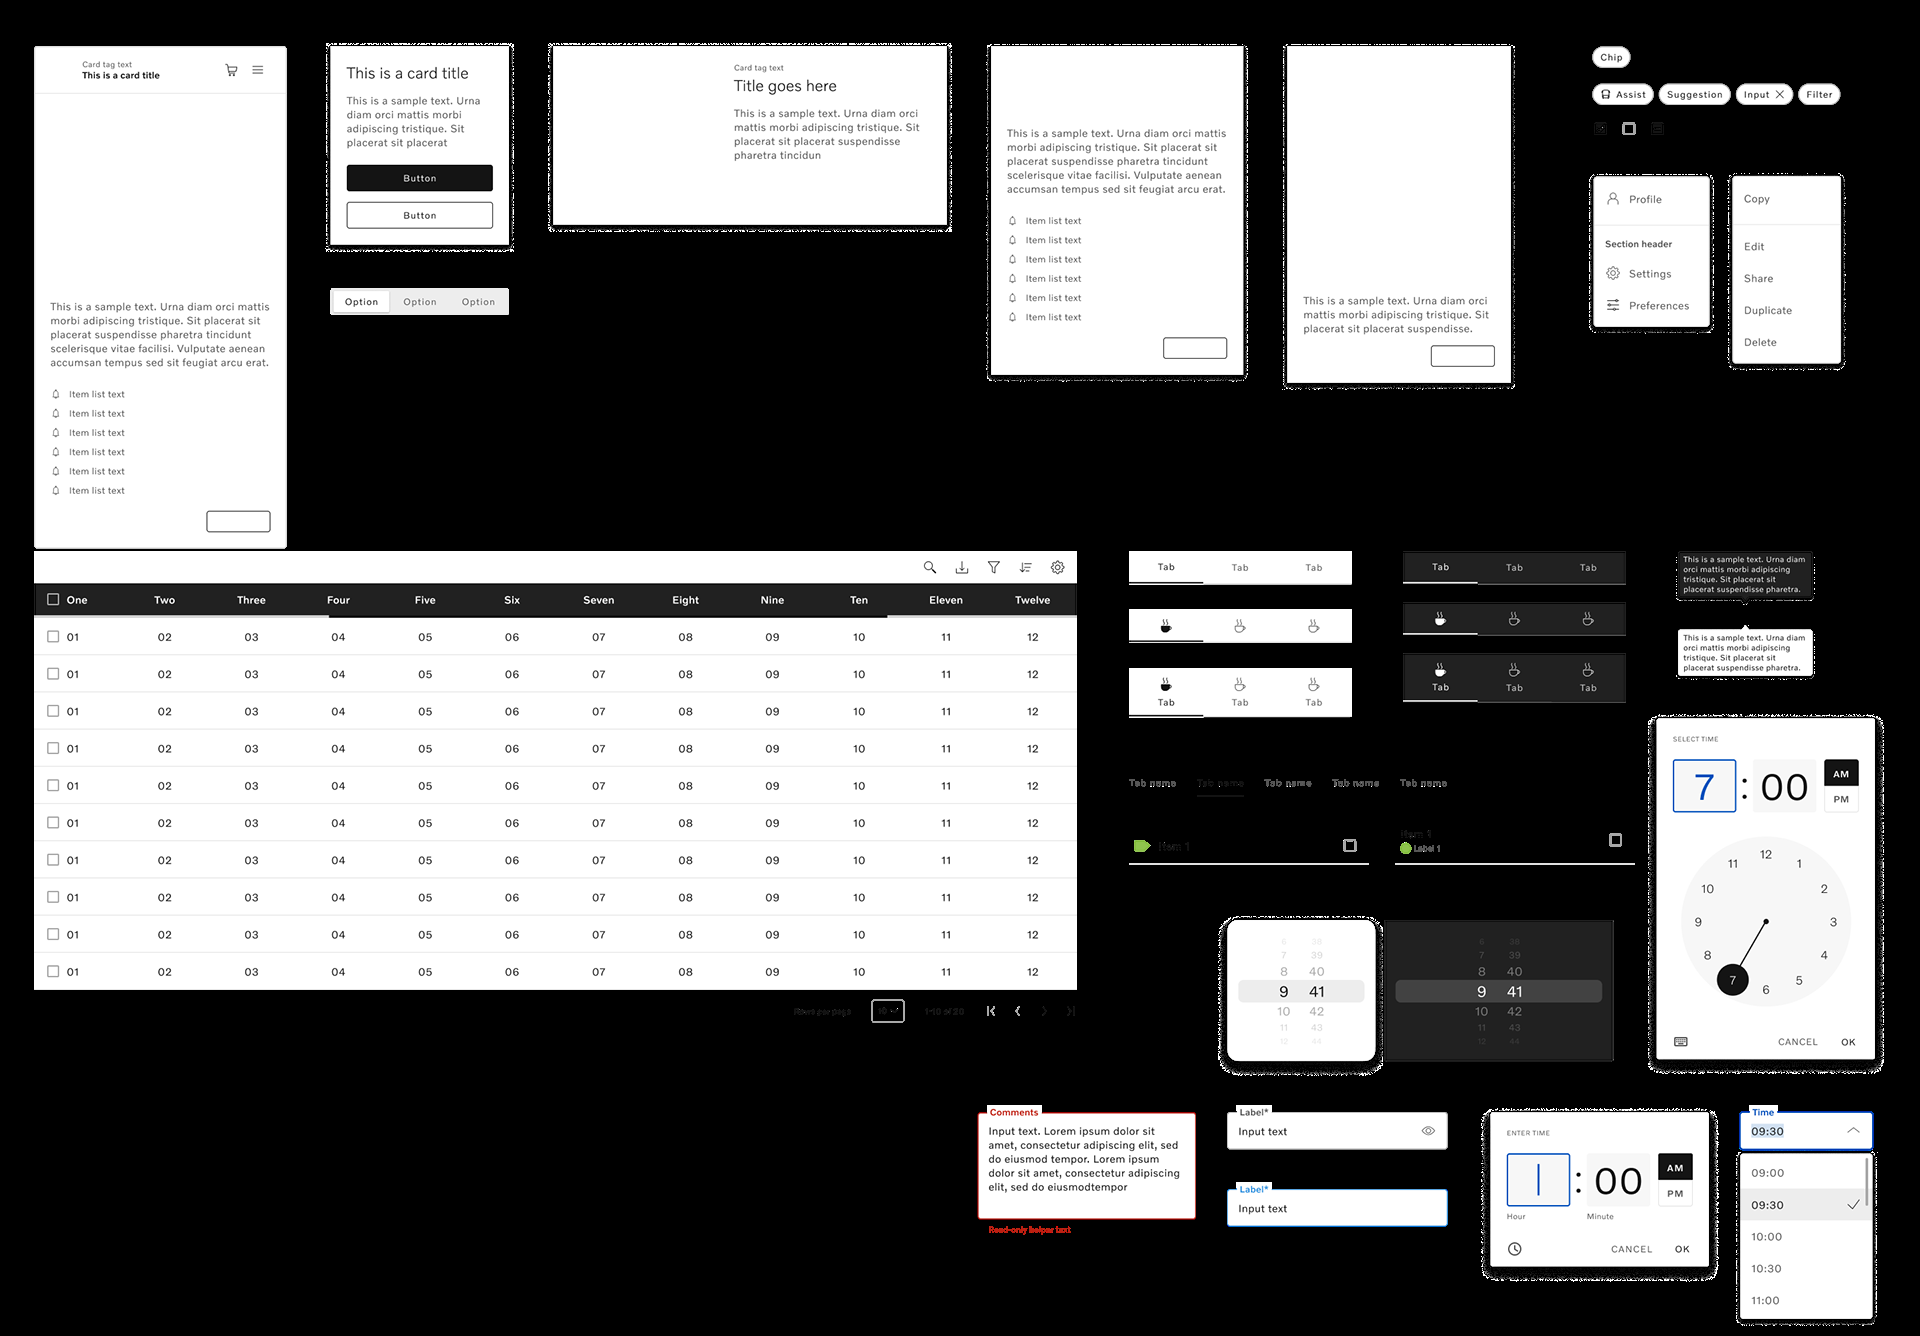
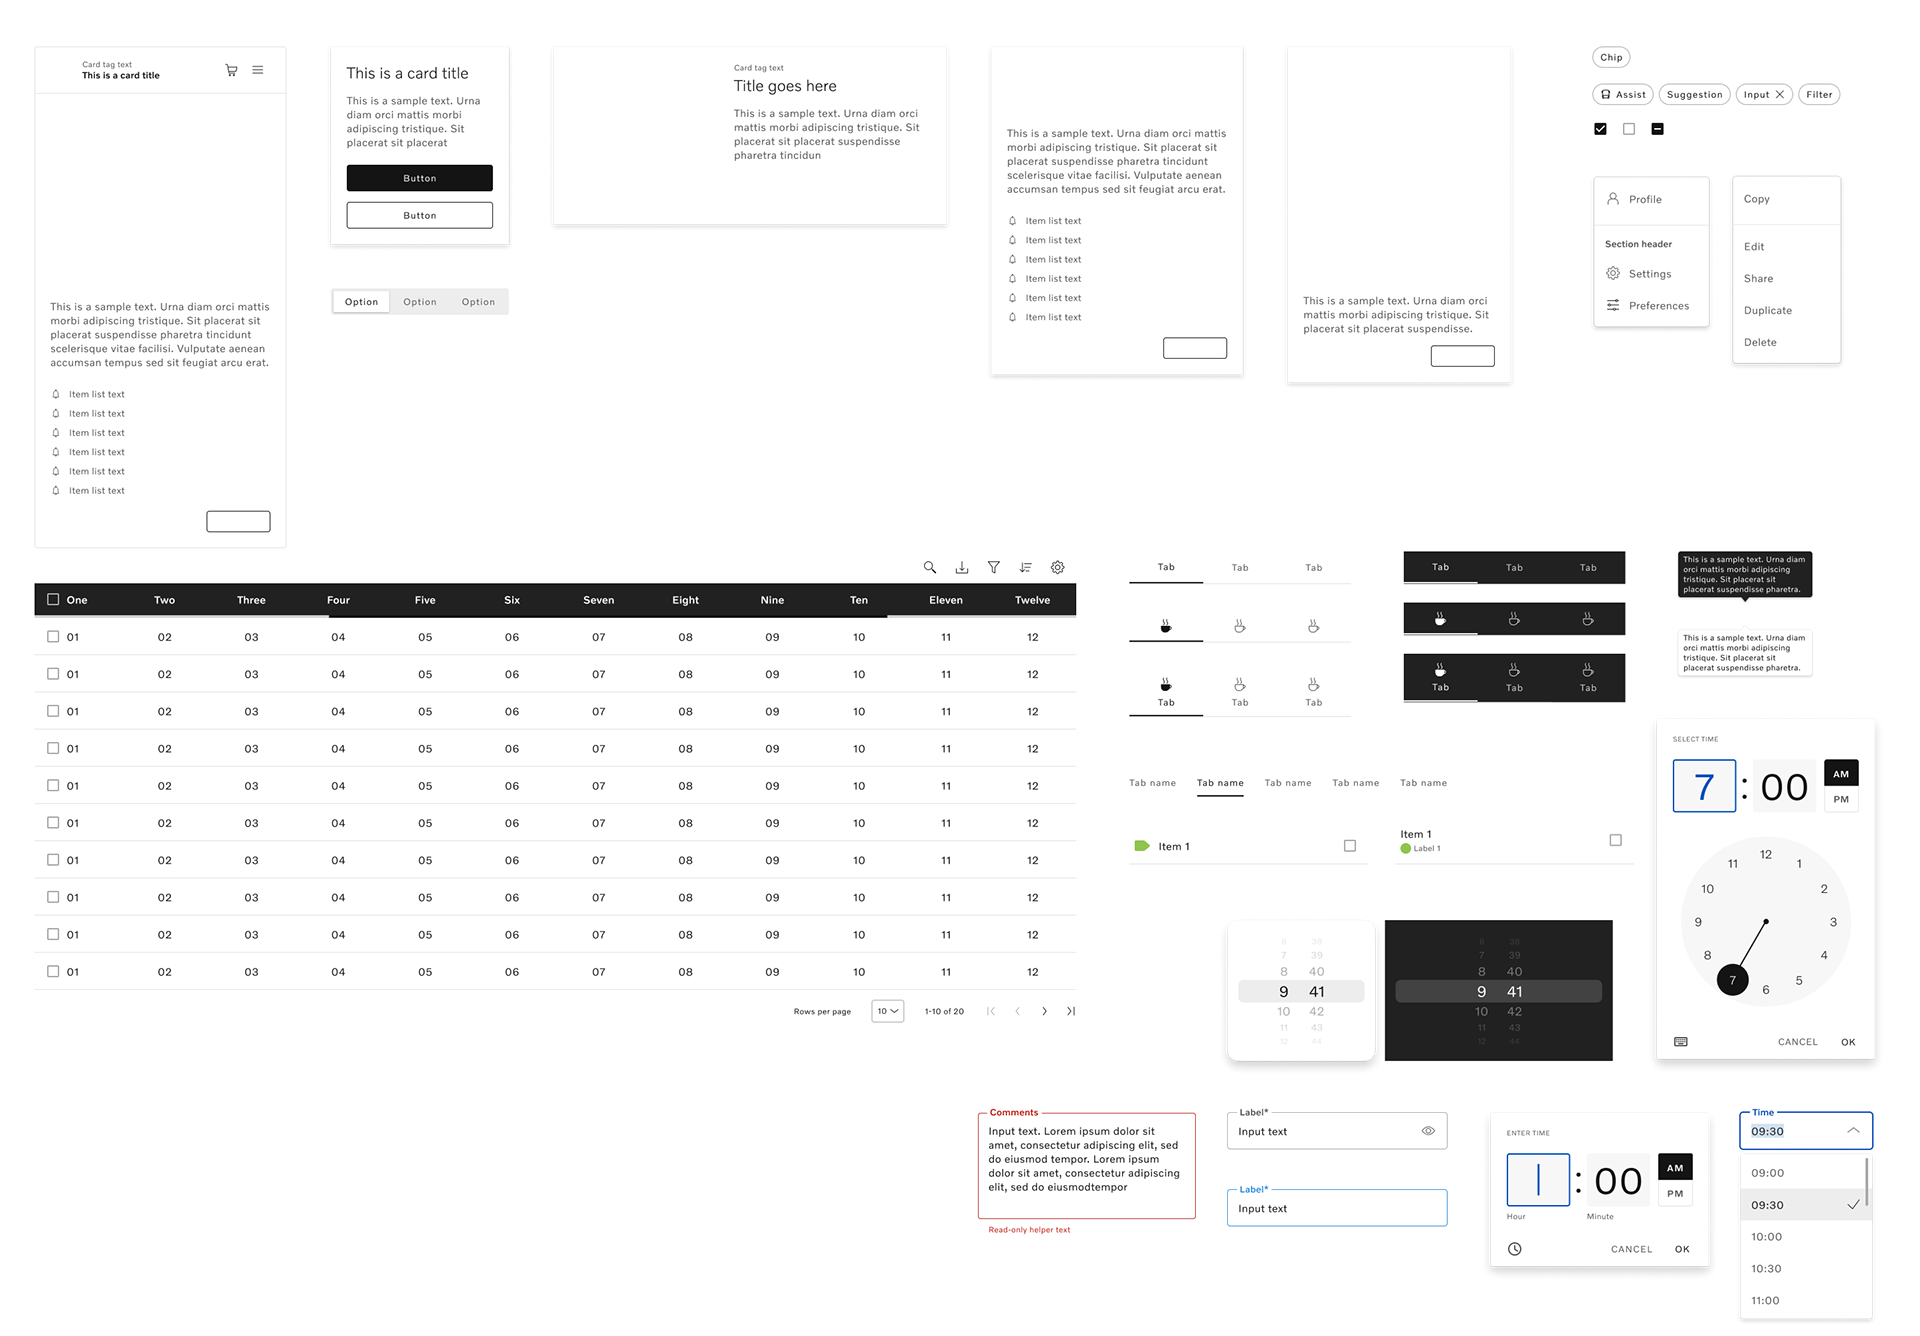
fix(work): Volvo - poprawki po review: kadr prototypu bez daty wydania, plansza komponentow na bialym tle, komentarz naglowka

diff --git a/site/src/content/volvo.ts b/site/src/content/volvo.ts
@@ -3,14 +3,16 @@ import type { CaseStudy } from "./types";
 /**
  * There are no clean screen exports from this project. The original
  * documentation is gone and the record is the set of boards once published on
- * Behance. Every image on this page is a crop of one of those boards, cut to
- * the screen itself so the device mock-ups and stock photography fall away:
+ * Behance. Every screen image on this page is a crop of one of those boards,
+ * cut to the screen itself so the device mock-ups and stock photography fall
+ * away. The cover and the component board are used whole:
  *
  *   reports-*, partner-*      board 15 (before and after, search)
  *   report-*                  board 16 (before and after, reports)
  *   email-before              board 19 (e-mail template, before)
  *   email-after               board 18 (e-mail template, after)
- *   reports-share-prototype   board 13 (prototype, the screen without the monitor)
+ *   reports-share-prototype   board 13 (prototype, the screen without the monitor
+ *                             and without the version and release lines)
  *   components                board 12 (the component board, whole)
  *
  * The cover is the original Behance cover (board 00). Boards 01, 05 and 08
